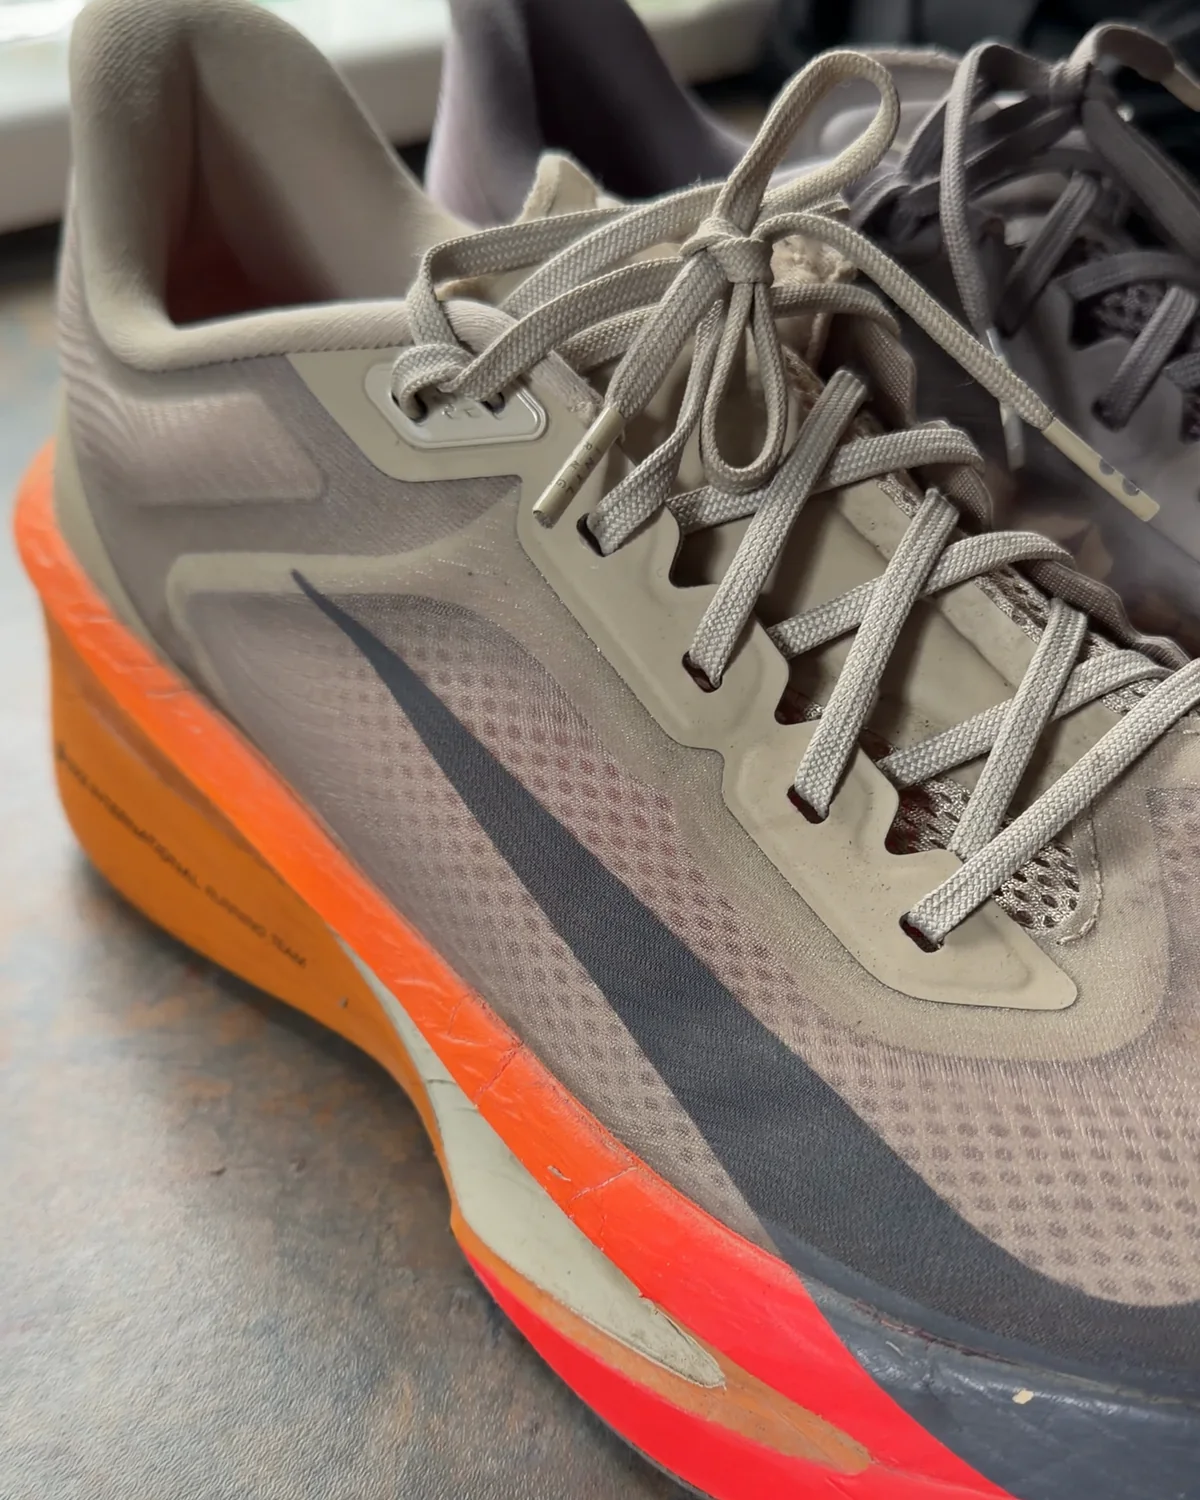
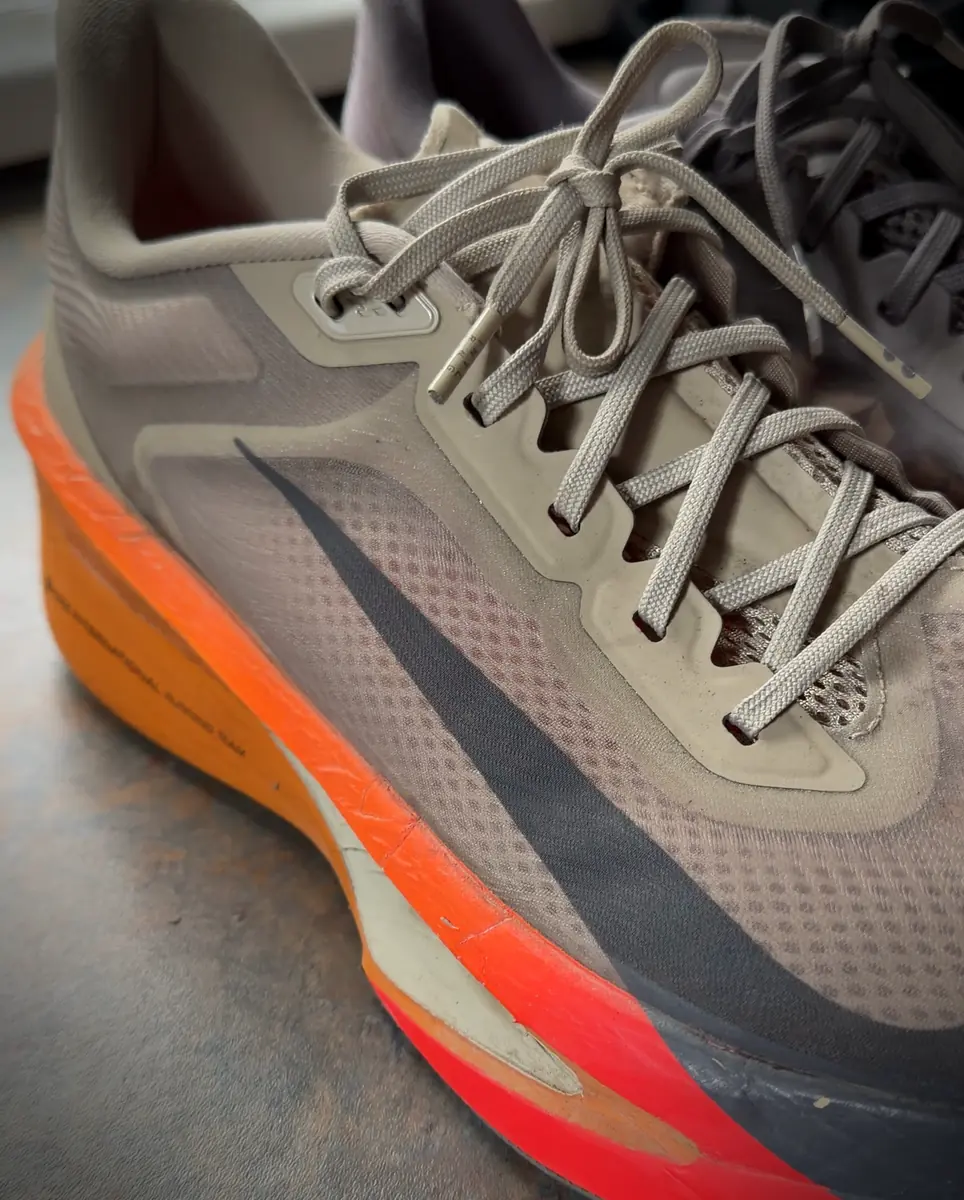
Re-crop and darken review photograph backgrounds
Andrew asked for the photo backgrounds to be tidied. All five review
photographs re-processed from the original sources:

  · cropped tighter to the shoes, removing the worktop, feet, lamp,
    plant pot, door and garden verge from frame edges
  · soft radial vignette darkens the periphery so the surroundings fall
    away into the Iron Black page instead of ending at a hard edge
  · slight contrast lift

The shoes themselves are untouched — no colour shift, no retouching of
the product. This is framing and lighting only, so the shoes still look
exactly as they do in Andrew's own photographs.

All five changed dimensions, so every width/height attribute across the
three pages and the registry's heroWidth/heroHeight were updated to
match. Also corrected the author photo, which had long declared 300x300
against a real 752x940 file.

Verified at mobile and desktop across all three routes: zero distorted
images, cumulative layout shift 0, no overflow, no broken images, no
console errors, and every declared dimension now matches its real file.

Claude-Session: https://claude.ai/code/session_01HyrEWE1TcPsP8zAC3dYXTf

diff --git a/reviews/nike-vomero-premium/index.html b/reviews/nike-vomero-premium/index.html
@@ -83,7 +83,7 @@
   <div class="rv-hero">
     <img src="../../assets/images/nike-vomero-premium.webp"
          alt="A pair of Nike Vomero Premium running shoes in coral with a translucent blue midsole"
-         width="1050" height="1400" fetchpriority="high" decoding="async">
+         width="1400" height="1217" fetchpriority="high" decoding="async">
     <div class="inner">
       <nav class="rv-crumbs" aria-label="Breadcrumb">
         <a href="../../index.html">Home</a>
@@ -179,13 +179,13 @@
               <figure>
                 <img src="../../assets/images/nike-vomero-premium-heel.webp"
                      alt="Heel view of the Nike Vomero Premium, showing the coral-to-blue midsole fade, reflective heel strips and a moulded &quot;Not approved by World Athletics&quot; marking"
-                     width="900" height="1200" loading="lazy" decoding="async">
+                     width="1200" height="1164" loading="lazy" decoding="async">
                 <figcaption>Heel detail — the midsole carries a moulded “Not approved by World Athletics” marking</figcaption>
               </figure>
               <figure>
                 <img src="../../assets/images/nike-vomero-premium-top.webp"
                      alt="Top-down view of the Nike Vomero Premium pair, showing the coral upper, lacing and padded collars"
-                     width="900" height="1200" loading="lazy" decoding="async">
+                     width="911" height="1200" loading="lazy" decoding="async">
                 <figcaption>The pair, top down</figcaption>
               </figure>
             </div>
@@ -313,7 +313,7 @@
           <!-- ============ author card ============ -->
           <div class="rv-panel rv-author" style="margin-top:14px">
             <img src="../../assets/images/andrew-iron-miles.jpg" alt="Andrew McNamara, founder of Iron Miles"
-                 width="300" height="300" loading="lazy" decoding="async">
+                 width="752" height="940" loading="lazy" decoding="async">
             <div>
               <div class="n">Andrew McNamara</div>
               <div class="r">Founder, Iron Miles</div>

diff --git a/reviews/nike-zoom-fly-6/index.html b/reviews/nike-zoom-fly-6/index.html
@@ -244,7 +244,7 @@
             <figure>
               <img src="../../assets/images/nike-zoom-fly-6-upper-detail.webp"
                    alt="Close-up of the worn Nike Zoom Fly 6 upper, showing the mesh, laces and orange midsole"
-                   width="1200" height="1500" loading="lazy" decoding="async">
+                   width="964" height="1200" loading="lazy" decoding="async">
               <figcaption>The upper after the training and racing described in this review</figcaption>
             </figure>
           </section>
@@ -347,7 +347,7 @@
             <figure>
               <img src="../../assets/images/nike-zoom-fly-6-outsole-wear.webp"
                    alt="Outsole of a used pair of Nike Zoom Fly 6, showing rubber wear and the exposed foam sections"
-                   width="1200" height="1500" loading="lazy" decoding="async">
+                   width="967" height="1200" loading="lazy" decoding="async">
               <figcaption>No mileage figure is quoted — this is the outsole after the events described above</figcaption>
             </figure>
           </section>
@@ -435,7 +435,7 @@
           <!-- ============ author card ============ -->
           <div class="rv-panel rv-author" style="margin-top:14px">
             <img src="../../assets/images/andrew-iron-miles.jpg" alt="Andrew McNamara, founder of Iron Miles"
-                 width="300" height="300" loading="lazy" decoding="async">
+                 width="752" height="940" loading="lazy" decoding="async">
             <div>
               <div class="n">Andrew McNamara</div>
               <div class="r">Founder, Iron Miles</div>

diff --git a/reviews/index.html b/reviews/index.html
@@ -123,7 +123,7 @@
           <div class="shot">
             <img src="../assets/images/nike-vomero-premium.webp"
                  alt="A pair of Nike Vomero Premium running shoes in coral with a translucent blue midsole"
-                 width="1050" height="1400" loading="lazy" decoding="async">
+                 width="1400" height="1217" loading="lazy" decoding="async">
           </div>
           <div class="cbody">
             <span class="cat">Shoes · Road / recovery</span>

diff --git a/assets/js/reviews-data.js b/assets/js/reviews-data.js
@@ -188,8 +188,8 @@
       heroImage: "assets/images/nike-vomero-premium.webp",
       imageAlt:
         "A pair of Nike Vomero Premium running shoes in coral with a translucent blue midsole",
-      heroWidth: 1050,
-      heroHeight: 1400,
+      heroWidth: 1400,
+      heroHeight: 1217,
       images: [
         "assets/images/nike-vomero-premium.webp",
         "assets/images/nike-vomero-premium-heel.webp",
